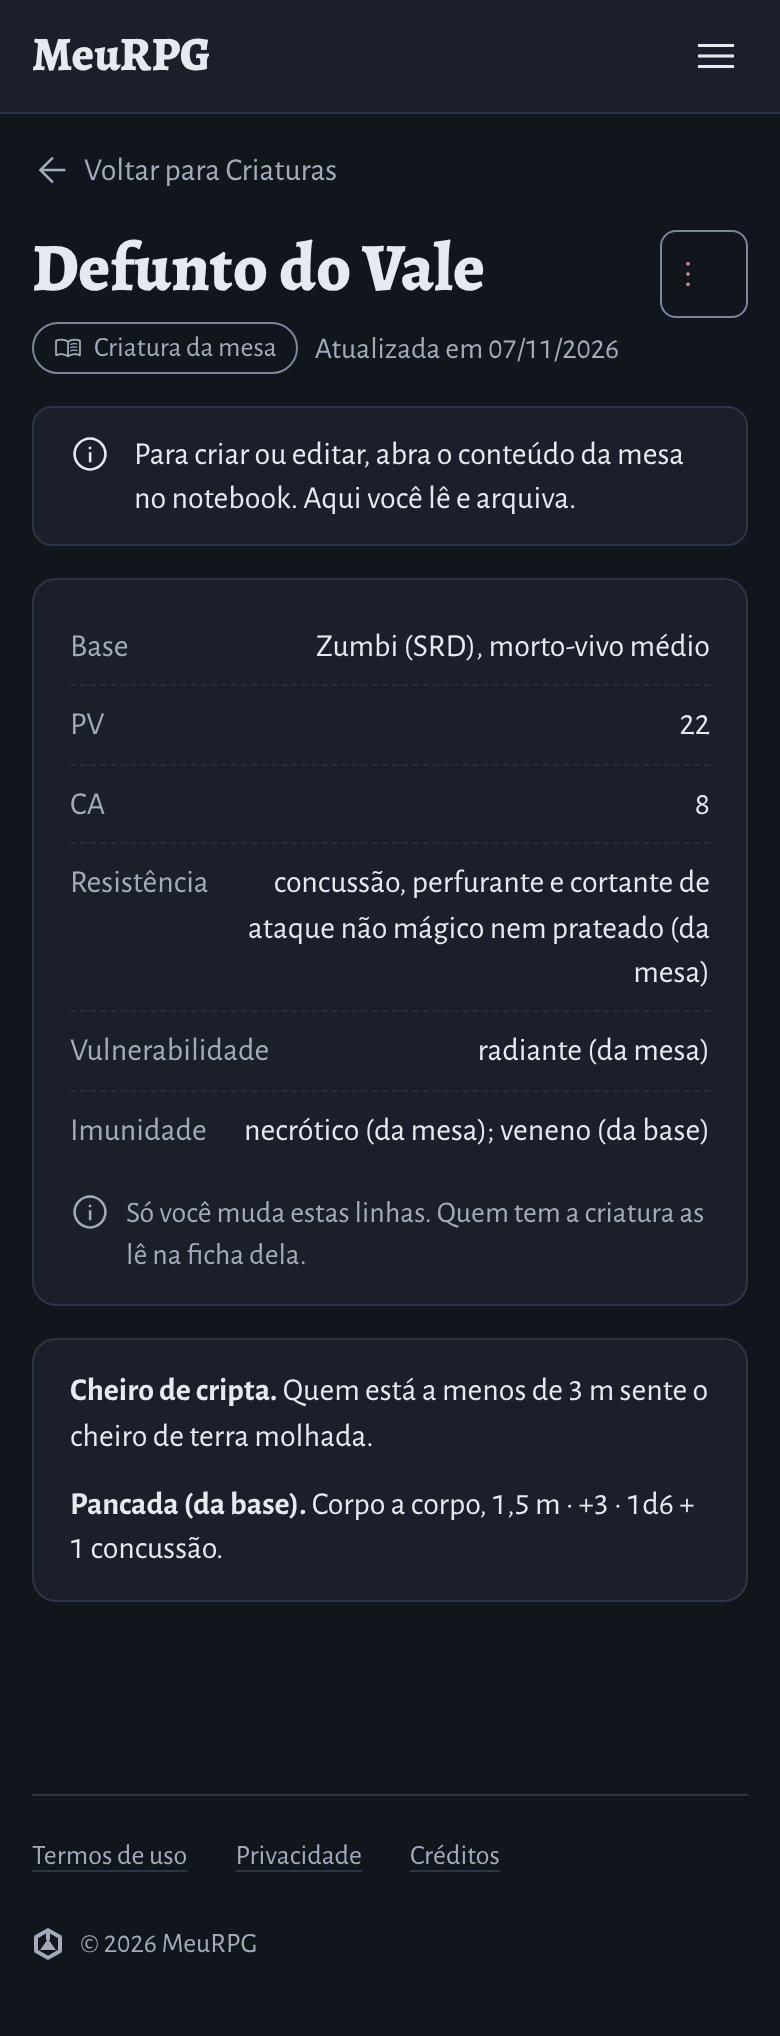
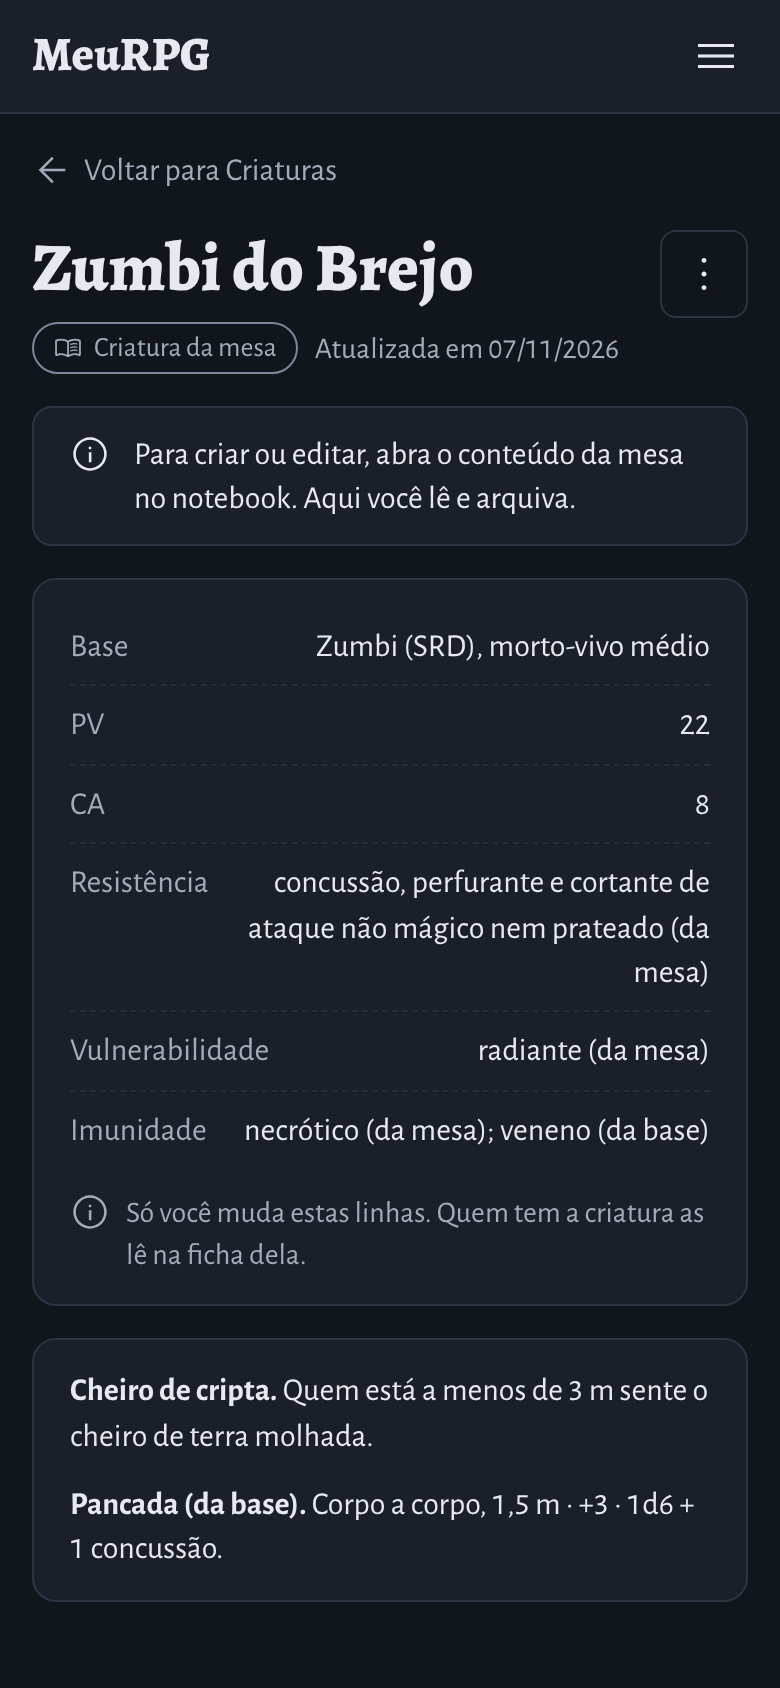
screenshots: 578-creature-editor retaken as viewport captures in both themes (phone more button, damage rows, save bar, refusal)
Claude-Session: https://claude.ai/code/session_015TiZRk4BLzK6ZGERJDxqPa

diff --git a/578-creature-editor/README.md b/578-creature-editor/README.md
@@ -1,20 +1,26 @@
 # #578 creature editor (C1), damage rows, phone read (C4)
 
-Captured from the local stack at device scale factor 2. The editor shows at 768 px and up; the master's phone read exists below 768 px (the 767 px file is its widest case).
+Captured from the native local stack (CockroachDB) at device scale factor 2. The shots are viewport captures (1280x800, 1024x800, 768x1024, 390x844, 767x844); only the `-full` files are full page, where the screen scrolls on purpose. The editor shows at 768 px and up; the master's phone read exists below 768 px.
 
-- `c1-editor-damage-1280-dark.png` (2560x4006 px, device scale 2)
-- `c1-editor-damage-1280-light.png` (2560x4006 px, device scale 2)
-- `c1-editor-new-1280-dark.png` (2560x1600 px, device scale 2)
-- `c1-editor-new-1280-light.png` (2560x1600 px, device scale 2)
-- `c1-editor-refusal-1280-dark.png` (2560x4260 px, device scale 2)
-- `c1-editor-refusal-1280-light.png` (2560x4260 px, device scale 2)
-- `c1-editor-saved-1280-dark.png` (2560x3812 px, device scale 2)
-- `c1-editor-saved-1280-light.png` (2560x3812 px, device scale 2)
-- `c1-editor-saved-768-dark.png` (1536x5038 px, device scale 2)
-- `c1-editor-saved-768-light.png` (1536x5038 px, device scale 2)
-- `c4-phone-read-390-dark.png` (780x2036 px, device scale 2)
-- `c4-phone-read-390-light.png` (780x2036 px, device scale 2)
-- `c4-phone-read-767-dark.png` (1534x2048 px, device scale 2)
-- `c4-phone-read-767-light.png` (1534x2048 px, device scale 2)
-- `c4-phone-read-wolf-390-dark.png` (780x1918 px, device scale 2)
-- `c4-phone-read-wolf-390-light.png` (780x1918 px, device scale 2)
+- `c1-editor-damage-1024-dark.png` (2048x1600 px, device scale 2): the damage rows at 1024 px: the section is narrow, so each row stacks and no value is cut (dark)
+- `c1-editor-damage-1024-light.png` (2048x1600 px, device scale 2): the damage rows at 1024 px: the section is narrow, so each row stacks and no value is cut (light)
+- `c1-editor-damage-1280-dark.png` (2560x1600 px, device scale 2): the three damage rows side by side, the off "Vale contra" cell dashed with the block icon, the save bar in place (dark)
+- `c1-editor-damage-1280-light.png` (2560x1600 px, device scale 2): the three damage rows side by side, the off "Vale contra" cell dashed with the block icon, the save bar in place (light)
+- `c1-editor-new-1280-dark.png` (2560x1600 px, device scale 2): a new creature after the base is picked, the top of the editor (dark)
+- `c1-editor-new-1280-light.png` (2560x1600 px, device scale 2): a new creature after the base is picked, the top of the editor (light)
+- `c1-editor-refusal-1280-dark.png` (2560x1600 px, device scale 2): a fourth row with no damage type refused under its select, the focus on it (dark)
+- `c1-editor-refusal-1280-light.png` (2560x1600 px, device scale 2): a fourth row with no damage type refused under its select, the focus on it (light)
+- `c1-editor-refusal-top-1280-dark.png` (2560x1600 px, device scale 2): the same refusal, the top of the page (summary) (dark)
+- `c1-editor-refusal-top-1280-light.png` (2560x1600 px, device scale 2): the same refusal, the top of the page (summary) (light)
+- `c1-editor-saved-1280-dark.png` (2560x1600 px, device scale 2): a saved creature, the top, with the save bar across the page at the foot (dark)
+- `c1-editor-saved-1280-full-dark.png` (2560x3812 px, device scale 2): the same editor, the whole page (full page on purpose: the editor scrolls) (dark)
+- `c1-editor-saved-1280-full-light.png` (2560x3812 px, device scale 2): the same editor, the whole page (full page on purpose: the editor scrolls) (light)
+- `c1-editor-saved-1280-light.png` (2560x1600 px, device scale 2): a saved creature, the top, with the save bar across the page at the foot (light)
+- `c1-editor-saved-768-dark.png` (1536x2048 px, device scale 2): the saved creature at 768 px (one column) (dark)
+- `c1-editor-saved-768-light.png` (1536x2048 px, device scale 2): the saved creature at 768 px (one column) (light)
+- `c4-phone-read-390-dark.png` (780x1688 px, device scale 2): the master phone read, with the solid 24 px more_vert button in the text colour (dark)
+- `c4-phone-read-390-light.png` (780x1688 px, device scale 2): the master phone read, with the solid 24 px more_vert button in the text colour (light)
+- `c4-phone-read-767-dark.png` (1534x1688 px, device scale 2): the phone read at 767 px (dark)
+- `c4-phone-read-767-light.png` (1534x1688 px, device scale 2): the phone read at 767 px (light)
+- `c4-phone-read-wolf-390-dark.png` (780x1688 px, device scale 2): the phone read of the wolf (dark)
+- `c4-phone-read-wolf-390-light.png` (780x1688 px, device scale 2): the phone read of the wolf (light)
